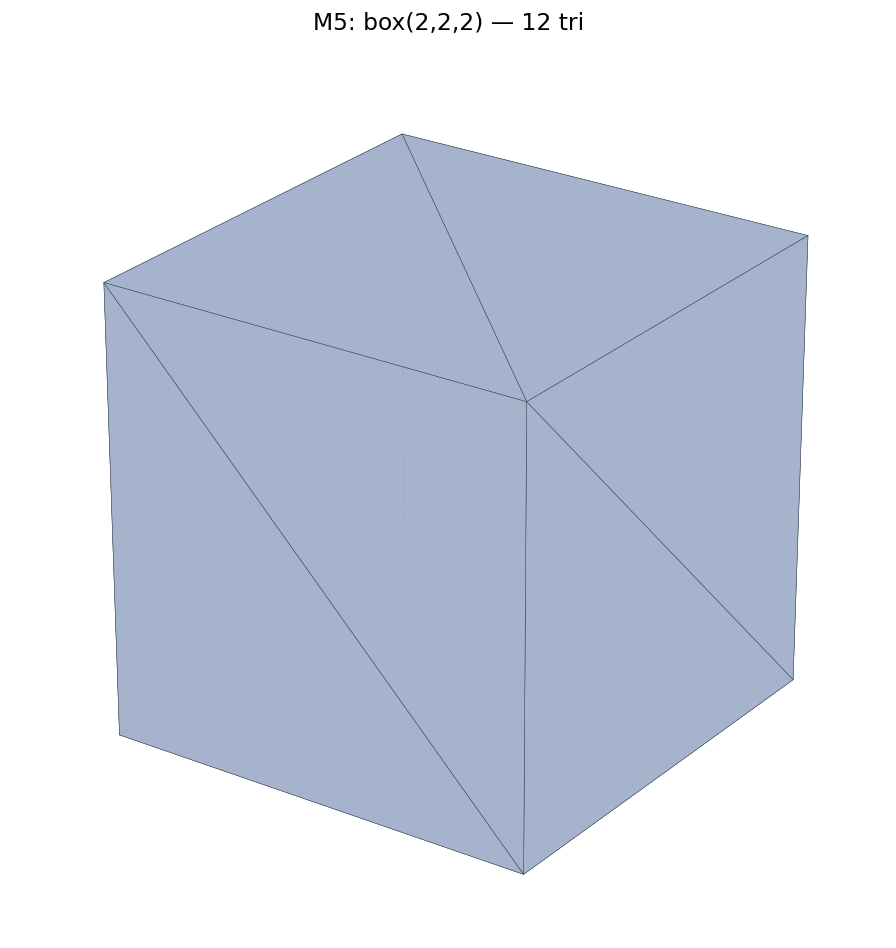
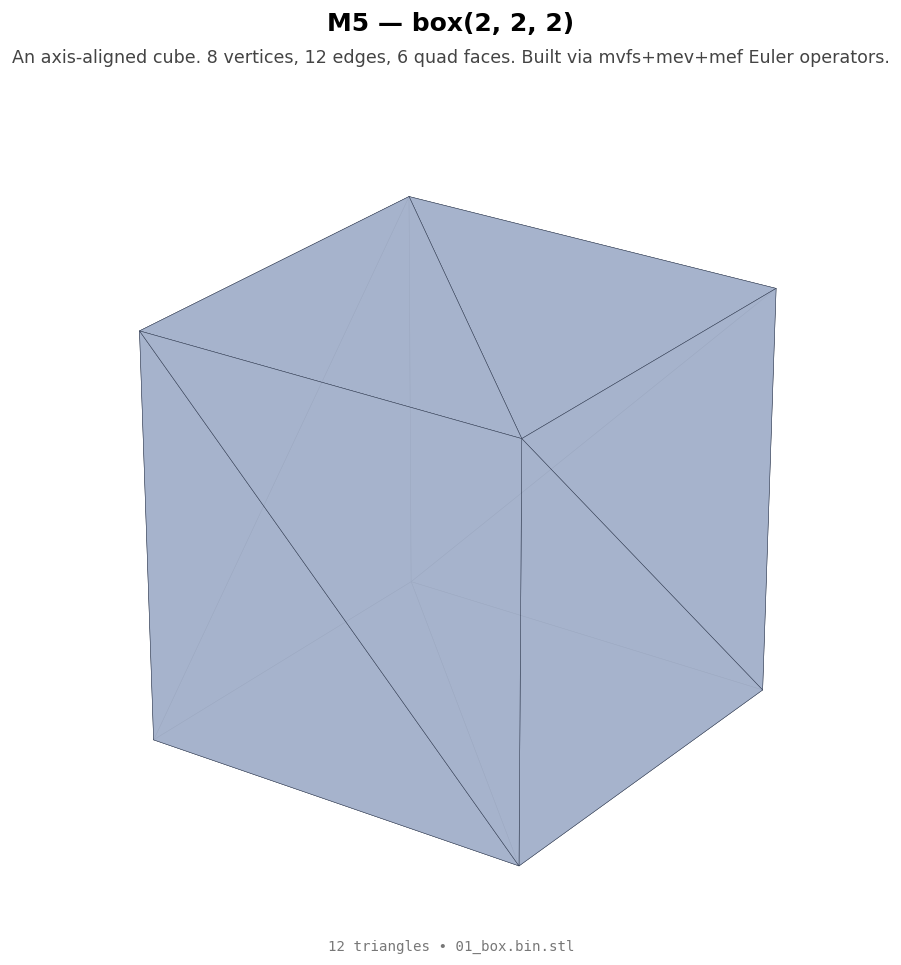
docs: captioned screenshots — 2-line description per render
Each PNG now shows the milestone tag + a one-line description of what to
look for visually. Verified all 14 against the captions:
- Primitives (zoo, box, prism, cylinder, cone, sphere, torus, frustum, vase)
  all render correctly with proper geometry.
- Boolean operations (union, intersection, corner-cut, hollow, recursive)
  all produce expected shapes; matplotlib wireframe rendering shows
  internal structure (helpful for the multi-shell hollow_box case).

Adds scripts/render_captioned.py.

diff --git a/scripts/render_captioned.py b/scripts/render_captioned.py
@@ -1,0 +1,129 @@
+#!/usr/bin/env python3
+"""Render every gallery STL with a descriptive 2-line caption explaining what to look for."""
+
+import os
+import sys
+
+from stl import mesh as stlmesh
+import matplotlib
+matplotlib.use("Agg")
+import matplotlib.pyplot as plt
+from mpl_toolkits.mplot3d.art3d import Poly3DCollection
+
+
+GALLERY = "/tmp/claude/kerf_gallery"
+OUT = "/Users/amy/code/kerf/screenshots"
+os.makedirs(OUT, exist_ok=True)
+
+
+def render(stl_path, out_path, title, subtitle, elev=25, azim=45, color=(0.65, 0.7, 0.8)):
+    m = stlmesh.Mesh.from_file(stl_path)
+    fig = plt.figure(figsize=(8, 8.5), dpi=120)
+    ax = fig.add_subplot(111, projection="3d")
+    ax.view_init(elev=elev, azim=azim)
+    poly = Poly3DCollection(m.vectors, alpha=0.92)
+    poly.set_facecolor(color)
+    poly.set_edgecolor((0.18, 0.22, 0.3))
+    poly.set_linewidth(0.3)
+    ax.add_collection3d(poly)
+    pts = m.vectors.reshape(-1, 3)
+    mn = pts.min(axis=0)
+    mx = pts.max(axis=0)
+    ctr = (mn + mx) / 2.0
+    span = (mx - mn).max() / 2.0 * 1.05
+    ax.set_xlim(ctr[0] - span, ctr[0] + span)
+    ax.set_ylim(ctr[1] - span, ctr[1] + span)
+    ax.set_zlim(ctr[2] - span, ctr[2] + span)
+    ax.set_box_aspect([1, 1, 1])
+    ax.set_axis_off()
+    fig.suptitle(title, fontsize=15, y=0.96, weight="bold")
+    fig.text(0.5, 0.91, subtitle, ha="center", fontsize=10.5, color="#444")
+    fig.text(
+        0.5, 0.04,
+        f"{len(m.vectors)} triangles • {os.path.basename(stl_path)}",
+        ha="center", fontsize=8.5, color="#777", family="monospace",
+    )
+    plt.tight_layout(rect=[0, 0.05, 1, 0.9])
+    plt.savefig(out_path, bbox_inches="tight", facecolor="white")
+    plt.close(fig)
+    print(f"wrote {out_path}")
+
+
+# (stem, title, subtitle, elev, azim)
+PLAN = [
+    ("01_box",
+     "M5 — box(2, 2, 2)",
+     "An axis-aligned cube. 8 vertices, 12 edges, 6 quad faces. Built via mvfs+mev+mef Euler operators.",
+     25, 35),
+    ("02_prism",
+     "M5b — extrude_polygon(triangle, +z)",
+     "A triangular prism extruded from a 3-vertex profile. Generalizes box_ to any convex N-gon.",
+     22, 35),
+    ("03_cylinder",
+     "M13 — cylinder(r=1, h=2)",
+     "Top and bottom disks (planar caps) connected by a cylindrical lateral surface. Topology has self-loop circles + 1 seam edge.",
+     20, 35),
+    ("04_cone",
+     "M14 — cone(r=1, h=2)",
+     "Apex point at top tapering to a circular base. 2 vertices, 2 edges, 2 faces. Validates Euler invariant = 2.",
+     22, 35),
+    ("05_sphere",
+     "M15 — sphere(r=1)",
+     "A closed sphere with 1V/0E/1F topology — the empty-loop case. Tessellated as a lat-long grid.",
+     15, 30),
+    ("06_torus",
+     "M16 — torus(R=1.5, r=0.4)",
+     "Genus-1 surface (Euler char 0). Topology: 1 vertex + 2 self-loop edges (meridian + equator) + 1 face. Validator handles non-zero genus.",
+     45, 30),
+    ("07_frustum",
+     "M17 — frustum(top=0.5, bot=1.5, h=2)",
+     "Truncated cone — narrower at top, wider at base. Uses Cone surface with apex computed off-solid.",
+     20, 35),
+    ("08_revolve_vase",
+     "M20 — revolve_polyline(vase profile)",
+     "6-point profile revolved around the z-axis. Each lateral segment is a Cone (frustum) or Cylinder. 5 stacked surfaces.",
+     12, 30),
+    ("10_union_two_boxes",
+     "M6e/M8 — box ∪ shifted_box (Union)",
+     "Two unit cubes overlapping by 50% along x. Union output is the merged outer surface as a connected B-rep solid.",
+     22, 40),
+    ("11_intersection_two_boxes",
+     "M6e/M8 — box ∩ shifted_box (Intersection)",
+     "Two unit cubes overlapping by 50%. Intersection is the overlap region, shaped as a smaller box.",
+     22, 40),
+    ("12_corner_cut_step",
+     "M11 — block.difference(corner_cutter)",
+     "4×4×4 block with a 2×2×2 cube notched out of one corner. Required interior-endpoint support (mev-tail trick).",
+     25, 50),
+    ("13_hollow_box",
+     "M12 — big.difference(small_inside)",
+     "Outer 4×4×4 shell + flipped inner 2×2×2 shell (visible through wireframe). Multi-shell stitch produces 2 disconnected components.",
+     20, 30),
+    ("14_recursive_intersection",
+     "M8 — (a ∩ b) ∩ c (recursive boolean)",
+     "Three boxes intersected pairwise. Validates that boolean_solid output can feed back into another boolean.",
+     22, 40),
+]
+
+
+for stem, title, subtitle, elev, azim in PLAN:
+    stl = f"{GALLERY}/{stem}.bin.stl"
+    png = f"{OUT}/{stem}.png"
+    if not os.path.exists(stl):
+        print(f"SKIP {stem}")
+        continue
+    render(stl, png, title, subtitle, elev, azim)
+
+
+# Also re-render the primitive zoo with caption.
+zoo_stl = "/tmp/claude/kerf_zoo.bin.stl"
+zoo_png = f"{OUT}/00_primitive_zoo.png"
+if os.path.exists(zoo_stl):
+    render(
+        zoo_stl, zoo_png,
+        "M18 — primitive zoo (every primitive in one STL)",
+        "Left→right: cone, cylinder, triangular prism, frustum (front), box, torus (front), sphere. 1364 triangles total.",
+        elev=25, azim=45,
+    )
+
+print(f"\nAll captioned renders in {OUT}/")
